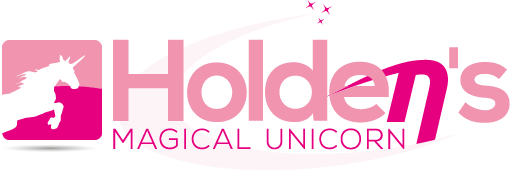
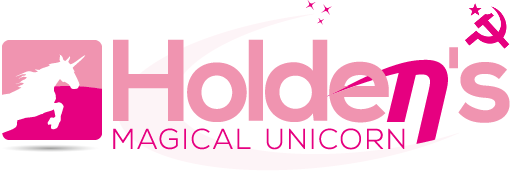
Update unicorn assets

Changed region(s): [[0.9118, 0.0292, 1.0, 0.2924]]

diff --git a/frontend/unicorn/templates/index.html b/frontend/unicorn/templates/index.html
@@ -1,8 +1,9 @@
 <html>
 <head>
-<title>Holden's Magical Unicorn Review Board</title>
+<title>Holden's Magical Unicorn Review Board - In Soviet Russia, Code Fixes You!</title>
 </head>
 <body>
+<img src="unicorn.png"><br>
 Welcome to Holden's Magical Unicorn's Review Board, here you can review pull requests generated by <a href="https://github.com/holdenk/holdensmagicalunicorn">the magical unicorn</a>. Get started <a href="/review">here!</a>
 </body>
 </html>

diff --git a/frontend/unicorn/templates/review.html b/frontend/unicorn/templates/review.html
@@ -1,10 +1,11 @@
 <html>
 <head>
 <title>
-Welcome {{ghusername}}!
+Welcome {{ghusername}}! - In Soviet Russia, Code Fixes You!
 </title>
 </head>
 <body>
+<img src="unicorn.png"><br>
 <form name="input" action="review" method="post">
 {% if newpatch %}
 Welcome {{ghusername}}! What do you think of the following review:<br/>
